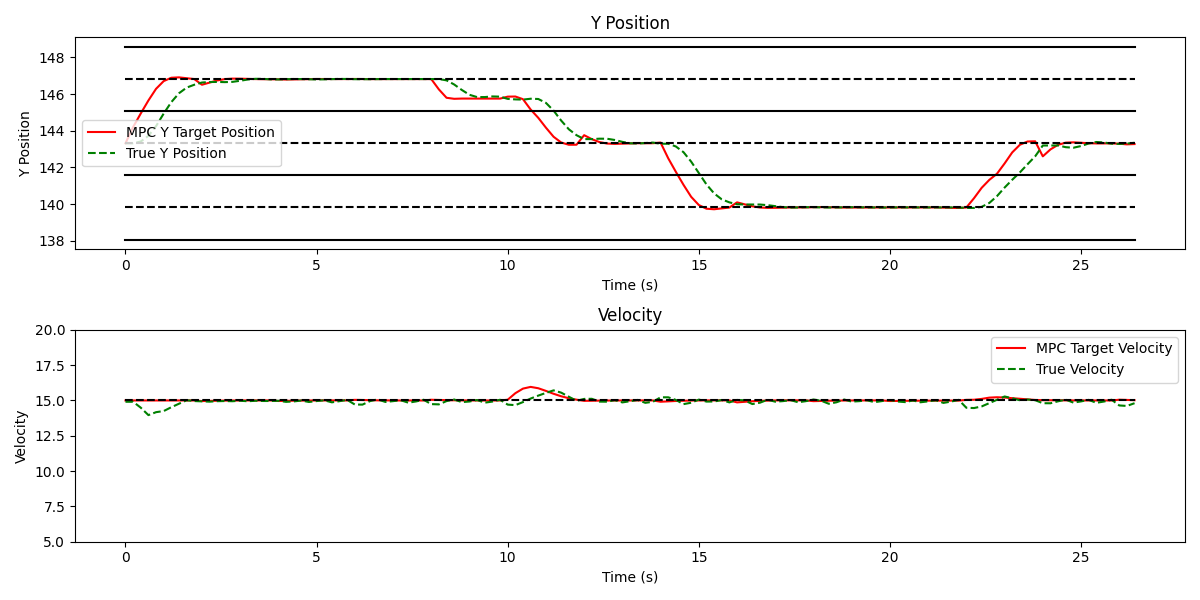
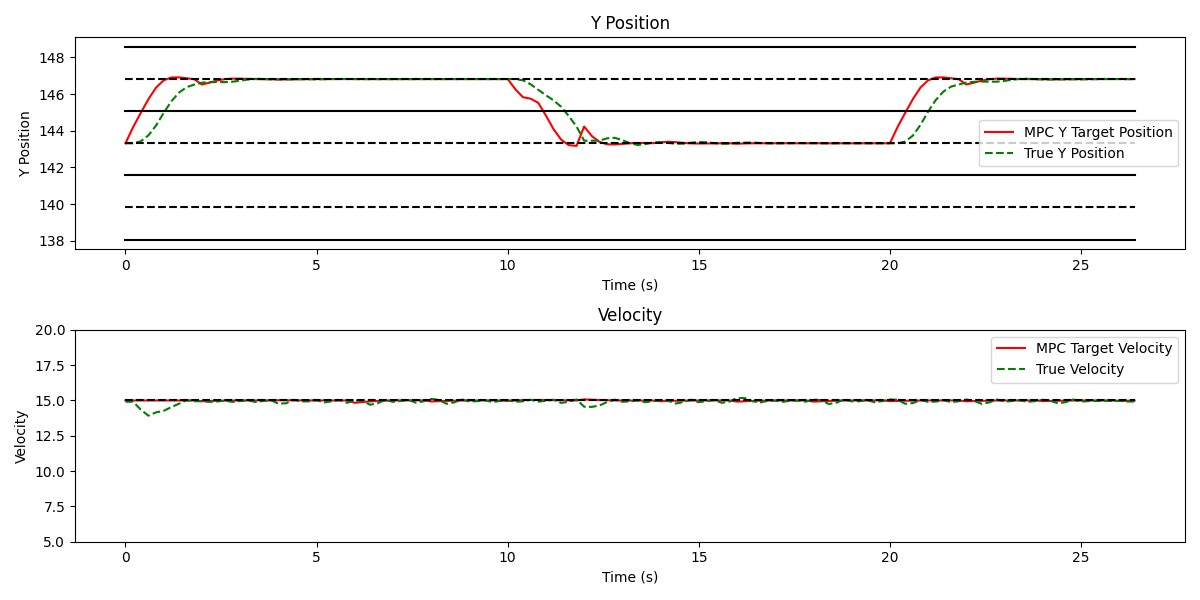
update gif

diff --git a/Mid_Term_Test/test_complex_env_makeController.py b/Mid_Term_Test/test_complex_env_makeController.py
@@ -33,12 +33,12 @@ dt = 0.3                  # Simulation time step (Impacts traffic model accuracy
 desired_interval = dt
 dt_PID = dt/5              # Time step for the PID controller
 f_controller = 10            # Controller update frequency, i.e updates at each t = dt*f_controller
-N =  12        # MPC Horizon length
+N =  10        # MPC Horizon length
 laneWidth = 3.5
 
 ref_vx = 54/3.6             # Higway speed limit in (m/s)
 ref_velocity=ref_vx
-q_traffic_slack = 1e4
+q_traffic_slack = 1e5
 traffic = Traffic(N,dt)
 velocities = {
         'normal': carla.Vector3D(0.75 * ref_vx, 0, 0),
@@ -73,7 +73,7 @@ nx,nu,nrefx,nrefu = vehicleADV.getSystemDim()
 # Set Cost parameters
 Q_ADV = [0,40,3e2,5]                            # State cost, Entries in diagonal matrix
 R_ADV = [5,5]                                   # Input cost, Entries in diagonal matrix
-q_ADV_decision = 50
+q_ADV_decision = 100
 vehicleADV.cost(Q_ADV,R_ADV)
 vehicleADV.costf(Q_ADV)
 L_ADV,Lf_ADV = vehicleADV.getCost()
@@ -279,22 +279,22 @@ for i in range(0,Nsim):
 print("Simulation finished")
 i_crit = i     
                                                 
-# figure_dir = r'C:\Users\A490243\Desktop\Master_Thesis\Figure'
-# gif_dir = r'C:\Users\A490243\Desktop\Master_Thesis\Figure'
-# gif_name = 'CARLA_simulation_Make_Controller_TEST.gif'
-# # animate_constraints(all_tightened_bounds, truck_positions, car_positions, Trajectory_pred, gif_dir,gif_name)
-# figure_name = 'CARLA_simulation_Make_Controller_TEST.png'
-# plot_and_save_simulation_data(truck_positions, timestamps, truck_velocities, truck_accelerations, truck_jerks, 
-#                               car_positions, leading_velocities, ref_velocity, truck_vel_mpc, truck_vel_control, 
-#                               figure_dir,figure_name)
+figure_dir = r'C:\Users\A490243\Desktop\Master_Thesis\Figure'
+gif_dir = r'C:\Users\A490243\Desktop\Master_Thesis\Figure'
+gif_name = 'CARLA_simulation_Make_Controller_TEST.gif'
+# animate_constraints(all_tightened_bounds, truck_positions, car_positions, Trajectory_pred, gif_dir,gif_name)
+figure_name = 'CARLA_simulation_Make_Controller_TEST.png'
+plot_and_save_simulation_data(truck_positions, timestamps, truck_velocities, truck_accelerations, truck_jerks, 
+                              car_positions, leading_velocities, ref_velocity, truck_vel_mpc, truck_vel_control, 
+                              figure_dir,figure_name)
 
-# figure_dir = r'C:\Users\A490243\Desktop\Master_Thesis\Figure'
-# figure_name = 'CARLA_simulation_Make_Controller_TEST.png'
-# plot_kf_trajectory(truck_positions, None, figure_dir, figure_name)
+figure_dir = r'C:\Users\A490243\Desktop\Master_Thesis\Figure'
+figure_name = 'CARLA_simulation_Make_Controller_TEST.png'
+plot_kf_trajectory(truck_positions, None, figure_dir, figure_name)
 
-# figure_dir = r'C:\Users\A490243\Desktop\Master_Thesis\Figure'
-# figure_name = 'CARLA_simulationn_Make_Controller_TEST_ref.png'
-# plot_mpc_y_vel(truck_y_mpc, truck_vel_mpc, truck_y_control, truck_vel_control, figure_dir, figure_name)
+figure_dir = r'C:\Users\A490243\Desktop\Master_Thesis\Figure'
+figure_name = 'CARLA_simulationn_Make_Controller_TEST_ref.png'
+plot_mpc_y_vel(truck_y_mpc, truck_vel_mpc, truck_y_control, truck_vel_control, figure_dir, figure_name)
 
 
 if makeMovie:

diff --git a/Mid_Term_Test/Controllers.py b/Mid_Term_Test/Controllers.py
@@ -233,7 +233,7 @@ class makeDecisionMaster:
     """
     #! This is the Decision Master used for decision making
     """
-    def __init__(self,vehicle,traffic,controllers,scenarios,changeHorizon = 5,forgettingFact = 0.90): 
+    def __init__(self,vehicle,traffic,controllers,scenarios,changeHorizon = 10, forgettingFact = 0.90): 
         self.vehicle = vehicle
         self.traffic = traffic
         self.controllers = controllers
@@ -511,6 +511,13 @@ class makeDecisionMaster:
         self.egoLane = self.scenarios[0].getEgoLane()
 
         # Revoke controller usage if initialized unfeasible
+        #!!!!!!!!!!!!!!!!!!!!!!!!!!!!!!!!!!!!!!!!!
+        # ? ASK ERIK ABOUT THIS
+        self.doTrailing = 1
+        self.doLeft = 1
+        self.doRight = 1
+        
+        
         self.doTrailing = 1
         if self.egoLane == 0:
             self.doLeft = 1

diff --git a/Mid_Term_Test/Traffic.py b/Mid_Term_Test/Traffic.py
@@ -21,8 +21,8 @@ class surroundVehicle:
         self.dt = dt
         self.laneWidth = laneWidth
         self.init_bound = center_line-self.laneWidth/2
-        self.leadWidth = 2.0
-        self.leadLength = 5
+        self.leadWidth = 2.032
+        self.leadLength = 4.78536
         # define the l_front and l_rear
         self.l_front = self.leadLength/2
         self.l_rear = self.leadLength/2

diff --git a/util/utils.py b/util/utils.py
@@ -958,7 +958,7 @@ def borvePictures(X,X_traffic,X_traffic_ref,paramLog,decisionLog,vehList,X_pred,
 
             if X[1,i,0] > scenarioTrailADV.init_bound+laneWidth:
                 lane = 1
-            elif X[1,i,0] < scenarioTrailADV.init_bound:
+            elif X[1,i,0] < scenarioTrailADV.init_bound: 
                 lane = -1
             else:
                 lane = 0

diff --git a/README.md b/README.md
@@ -113,3 +113,8 @@ TODO List:
 <p float="left">
   <img src="Figure/propagation of trajectory.png" width="85%" /> 
 </p>   
+
+
+<p float="left">
+  <img src="Figure/crazy_traffic_mix3.gif" width="85%" /> 
+</p>   
